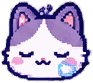
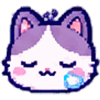
assets: новые спрайты лиц/сердца/зелья (изменения юзера); tools: dev_pet_boost — буст дев-питомца 900000001 (last_tick=now, add_xp(now), after.lv)

diff --git a/tools/dev_pet_boost.py b/tools/dev_pet_boost.py
@@ -1,0 +1,59 @@
+"""One-off: boost the /app_test dev pet (user 900000001) on the prod DB
+so battle features can be verified in a browser. Dev-harness pet only —
+real users have their own Telegram ids."""
+import json
+import sqlite3
+import sys
+import time
+
+sys.path.insert(0, '/root/tama/repo')
+from game.progress import add_xp  # noqa: E402
+from game.state import PetState  # noqa: E402
+
+DB = '/root/tama/repo/data/tamagotchi.db'
+UID = 900000001
+
+db = sqlite3.connect(DB)
+row = db.execute('SELECT state FROM pets WHERE user_id=?', (UID,)).fetchone()
+if row is None:
+    print('NO ROW for', UID)
+    sys.exit(1)
+st = PetState.from_json(row[0])
+print('fields:', sorted(vars(st).keys()))
+print('before:', json.dumps(st.to_dict(), ensure_ascii=False)[:300])
+
+
+def setmax(attr, val):
+    cur = getattr(st, attr, None)
+    if cur is None:
+        print('  skip missing attr', attr)
+        return
+    setattr(st, attr, max(cur, val))
+
+
+st.stage = max(1, int(st.stage))
+if not getattr(st, 'name', ''):
+    st.name = 'Тестик'
+for a, v in (('mood', 80.0), ('satiety', 80.0), ('energy', 100.0), ('hygiene', 70.0),
+             ('p', 20.0), ('iq', 20.0), ('ch', 20.0), ('coins', 300), ('gems', 20)):
+    setmax(a, v)
+try:
+    add_xp(st, 400, int(time.time()))
+except Exception as e:
+    print('add_xp failed:', e)
+for a in ('sick', 'sleeping', 'auto_sleep'):
+    if hasattr(st, a):
+        setattr(st, a, False)
+for a in ('bt', 'ex'):
+    if hasattr(st, a):
+        setattr(st, a, None)
+# ВАЖНО: сдвинуть last_tick на сейчас, иначе первый sync-тик сервера списит
+# часы распада от старой метки и закатит болезнь поверх буста.
+st.last_tick = int(time.time())
+db.execute('UPDATE pets SET state=? WHERE user_id=?', (st.to_json(), UID))
+db.commit()
+after = PetState.from_json(db.execute(
+    'SELECT state FROM pets WHERE user_id=?', (UID,)).fetchone()[0])
+print('after: stage=%s name=%s lv=%s mood=%s sat=%s en=%s p=%s iq=%s ch=%s coins=%s' % (
+    after.stage, after.name, after.lv, after.mood, after.satiety,
+    after.energy, after.p, after.iq, after.ch, after.coins))
